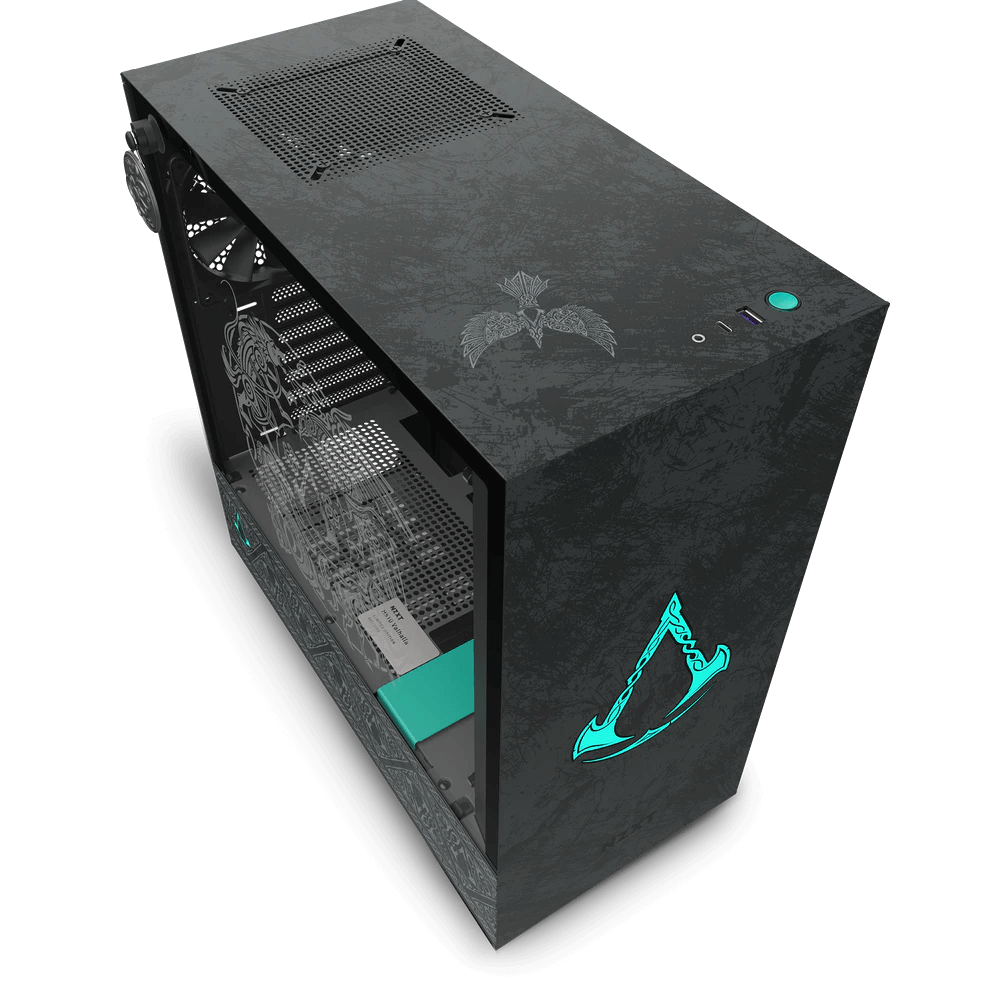
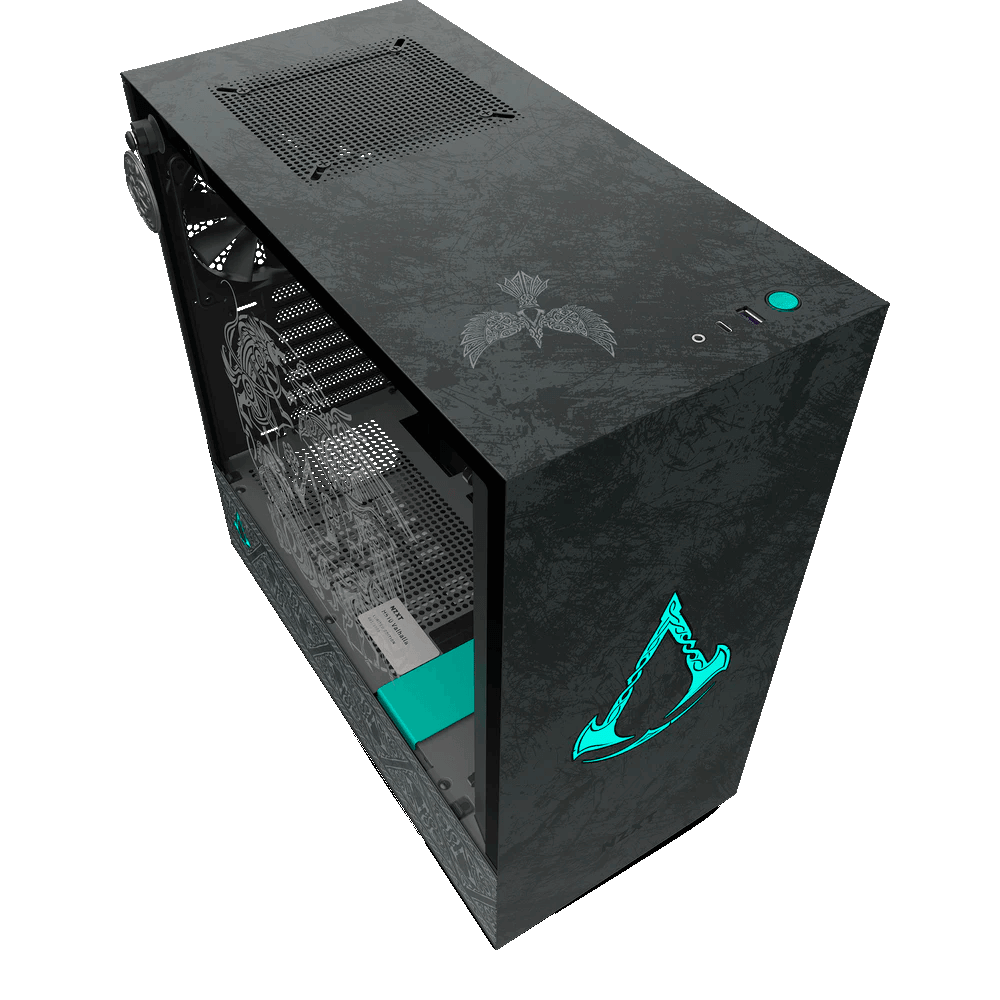
fix img

diff --git a/pages/gallery.html b/pages/gallery.html
@@ -45,46 +45,46 @@
             <div id="carouselFade" class="carousel slide carousel-fade" data-bs-ride="carousel">
                 <div class="carousel-inner">
                   <div class="carousel-item active">
-                    <img src="../assets/001.png" class="d-block w-100" alt="001">
+                    <img src="../assets/001.jpg" class="d-block w-100" alt="001">
                   </div>
                   <div class="carousel-item">
-                    <img src="../assets/002.png" class="d-block w-100" alt="002">
+                    <img src="../assets/002.jpg" class="d-block w-100" alt="002">
                   </div>
                   <div class="carousel-item">
-                    <img src="../assets/003.png" class="d-block w-100" alt="003">
+                    <img src="../assets/003.jpg" class="d-block w-100" alt="003">
                   </div>
                   <div class="carousel-item">
-                    <img src="../assets/004.png" class="d-block w-100" alt="004">
+                    <img src="../assets/004.jpg" class="d-block w-100" alt="004">
                   </div>
                   <div class="carousel-item">
-                    <img src="../assets/005.png" class="d-block w-100" alt="005">
+                    <img src="../assets/005.jpg" class="d-block w-100" alt="005">
                   </div>
                   <div class="carousel-item">
-                    <img src="../assets/006.png" class="d-block w-100" alt="006">
+                    <img src="../assets/006.jpg" class="d-block w-100" alt="006">
                   </div>
                   <div class="carousel-item">
-                    <img src="../assets/007.png" class="d-block w-100" alt="007">
+                    <img src="../assets/007.jpg" class="d-block w-100" alt="007">
                   </div>
                   <div class="carousel-item">
-                    <img src="../assets/008.png" class="d-block w-100" alt="008">
+                    <img src="../assets/008.jpg" class="d-block w-100" alt="008">
                   </div>
                   <div class="carousel-item">
-                    <img src="../assets/009.png" class="d-block w-100" alt="009">
+                    <img src="../assets/009.jpg" class="d-block w-100" alt="009">
                   </div>
                   <div class="carousel-item">
-                    <img src="../assets/010.png" class="d-block w-100" alt="010">
+                    <img src="../assets/010.jpg" class="d-block w-100" alt="010">
                   </div>
                   <div class="carousel-item">
-                    <img src="../assets/011.png" class="d-block w-100" alt="011">
+                    <img src="../assets/011.jpg" class="d-block w-100" alt="011">
                   </div>
                   <div class="carousel-item">
-                    <img src="../assets/012.png" class="d-block w-100" alt="012">
+                    <img src="../assets/012.jpg" class="d-block w-100" alt="012">
                   </div>
                   <div class="carousel-item">
-                    <img src="../assets/013.png" class="d-block w-100" alt="013">
+                    <img src="../assets/013.jpg" class="d-block w-100" alt="013">
                   </div>
                   <div class="carousel-item">
-                    <img src="../assets/014.png" class="d-block w-100" alt="014">
+                    <img src="../assets/014.jpg" class="d-block w-100" alt="014">
                   </div>
                 </div>
                 <button class="carousel-control-prev" type="button" data-bs-target="#carouselFade" data-bs-slide="prev">
